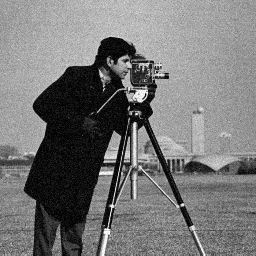
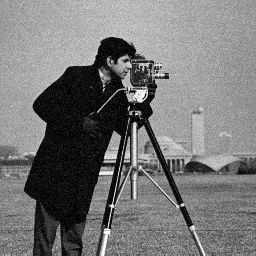
refactor: fix black and white dots bug

diff --git a/bm3d/filtration.py b/bm3d/filtration.py
@@ -8,14 +8,14 @@ from .profile import BM3DProfile
 from .transforms import *
 
 
-def applyHtToGroups(groups: List[np.ndarray], profile: BM3DProfile) -> List[np.ndarray]:
+def applyHtToGroups(groups: List[np.ndarray], noiseVariance: float, profile: BM3DProfile) -> List[np.ndarray]:
     """
     Apply hard-threshold filter to list of groups
     """
 
     filteredCoeffs: List[np.ndarray] = []
     for group in groups:
-        filteredCoeffs.append(applyFilterToHaar(group, profile))
+        filteredCoeffs.append(applyFilterToHaar(group, noiseVariance, profile))
 
     return filteredCoeffs
 
@@ -34,7 +34,8 @@ def applyWieToGroups(groupsEstimate: List[np.ndarray], groupsImage: List[np.ndar
 
     return filteredCoeffs, weights
 
-def applyFilterToHaar(group: np.ndarray, profile: BM3DProfile) -> np.ndarray:
+def applyFilterToHaar(group: np.ndarray, noiseVariance: float,
+                      profile: BM3DProfile) -> np.ndarray:
     """
     Apply filter to Haar coefficients
     """
@@ -42,7 +43,8 @@ def applyFilterToHaar(group: np.ndarray, profile: BM3DProfile) -> np.ndarray:
     approximationCoeffs: np.ndarray = group[:, 0, :]
     detailingCoeffs: np.ndarray = group[:, 1, :]    
 
-    filteredDetailingCoeffs: np.ndarray = applyHTtoSignal(detailingCoeffs, profile)
+    filteredDetailingCoeffs: np.ndarray = applyHTtoSignal(detailingCoeffs, 
+                                                          noiseVariance, profile)
 
     filtered_group: np.ndarray = np.empty_like(group)
     filtered_group[:, 0, :] = approximationCoeffs 
@@ -51,15 +53,17 @@ def applyFilterToHaar(group: np.ndarray, profile: BM3DProfile) -> np.ndarray:
     return filtered_group
 
 
-def applyHTtoSignal(array: np.ndarray, profile: BM3DProfile) -> np.ndarray:
+def applyHTtoSignal(array: np.ndarray, noiseVariance: float,
+                    profile: BM3DProfile) -> np.ndarray:
     """
     Apply hard-threshold filter to array
     """
 
-    return np.where(abs(array) < profile.filterThreshold, 0, array)
+    return np.where(abs(array) < noiseVariance * profile.filterThreshold, 0, array)
 
     
-def calculateBlocksWeights(groups: List[np.ndarray], noiseVariance: float) -> List[float]:
+def calculateBlocksWeights(groups: List[np.ndarray],
+                           noiseVariance: float) -> List[float]:
     """
     Calculate weights for each group based on number of non-zero coefficients
     in transform domain for reference block
@@ -78,7 +82,7 @@ def calculateBlocksWeights(groups: List[np.ndarray], noiseVariance: float) -> Li
 
 
 def applyFilterHt(groups: List[np.ndarray], noiseVariance: float,
-                                 profile: BM3DProfile) -> Tuple[List, List]:
+                  profile: BM3DProfile) -> Tuple[List, List]:
     """
     Apply Hard-threshold filter to groups using transform domain
 
@@ -95,7 +99,7 @@ def applyFilterHt(groups: List[np.ndarray], noiseVariance: float,
     transformedGroups2D = applyToGroups2DCT(groups)
     transformedCoeffs1D = applyToGroups1DTransform(transformedGroups2D)
 
-    filteredCoeffs1D = applyHtToGroups(transformedCoeffs1D, profile)
+    filteredCoeffs1D = applyHtToGroups(transformedCoeffs1D, noiseVariance, profile)
     weights = calculateBlocksWeights(filteredCoeffs1D, noiseVariance)
 
     filteredCoeffs2D = applyToGroups1DInverseTransform(filteredCoeffs1D, groups)

diff --git a/bm3d/core.py b/bm3d/core.py
@@ -19,10 +19,10 @@ def bm3d(noisyImage: np.ndarray, noiseVariance: float,
     """
 
     basicEstimate: np.ndarray = bm3dBasic(noisyImage, noiseVariance, profile)
-    finalEstimate: np.ndarray = bm3dFinal(noisyImage, basicEstimate,
-                                          noiseVariance, profile)
+    # finalEstimate: np.ndarray = bm3dFinal(noisyImage, basicEstimate,
+    #                                       noiseVariance, profile)
 
-    return finalEstimate
+    return basicEstimate
 
 
 def bm3dBasic(noisyImage: np.ndarray, noiseVariance: float,
@@ -30,13 +30,16 @@ def bm3dBasic(noisyImage: np.ndarray, noiseVariance: float,
     """
     Perform basic step of the BM3D with hard-threshold filter
     """
+
     groupsCoords, groups = findSimilarGroups(noisyImage, profile)
 
     filteredGroups, weights = applyFilterHt(groups, noiseVariance, profile)
 
     imageEstimate = agregation(noisyImage.shape, filteredGroups,
                                groupsCoords, weights, profile)
-    return imageEstimate
+    clippedEstimate = np.clip(imageEstimate, 0, 255).astype(np.uint8)
+
+    return clippedEstimate
 
 
 def bm3dFinal(basicEstimate: np.ndarray, noisyImage: np.ndarray,
@@ -44,6 +47,7 @@ def bm3dFinal(basicEstimate: np.ndarray, noisyImage: np.ndarray,
     """
     Perform final step of the BM3D with wiener filter
     """
+
     groupsCoords, groupsEstimate = findSimilarGroups(basicEstimate, profile)
     groupsImage: List[np.ndarray] = getGroupsFromCoords(noisyImage, groupsCoords,
                                                         profile)
@@ -53,6 +57,9 @@ def bm3dFinal(basicEstimate: np.ndarray, noisyImage: np.ndarray,
 
     imageEstimate = agregation(noisyImage.shape, filteredGroups,
                                groupsCoords, weights, profile)
-    return imageEstimate
+
+    clippedEstimate = np.clip(imageEstimate, 0, 255).astype(np.uint8)
+
+    return clippedEstimate
 
 

diff --git a/bm3d/profile.py b/bm3d/profile.py
@@ -51,7 +51,7 @@ class BM3DProfile:
         blockSize: int = 16,
         blockStep: int = 8,
         distanceThreshold: int = 100,
-        filterThreshold: float = 30.00,
+        filterThreshold: float = 3.00,
         groupMaxSize: int = 16,
     ):
         self._blockSize = blockSize
